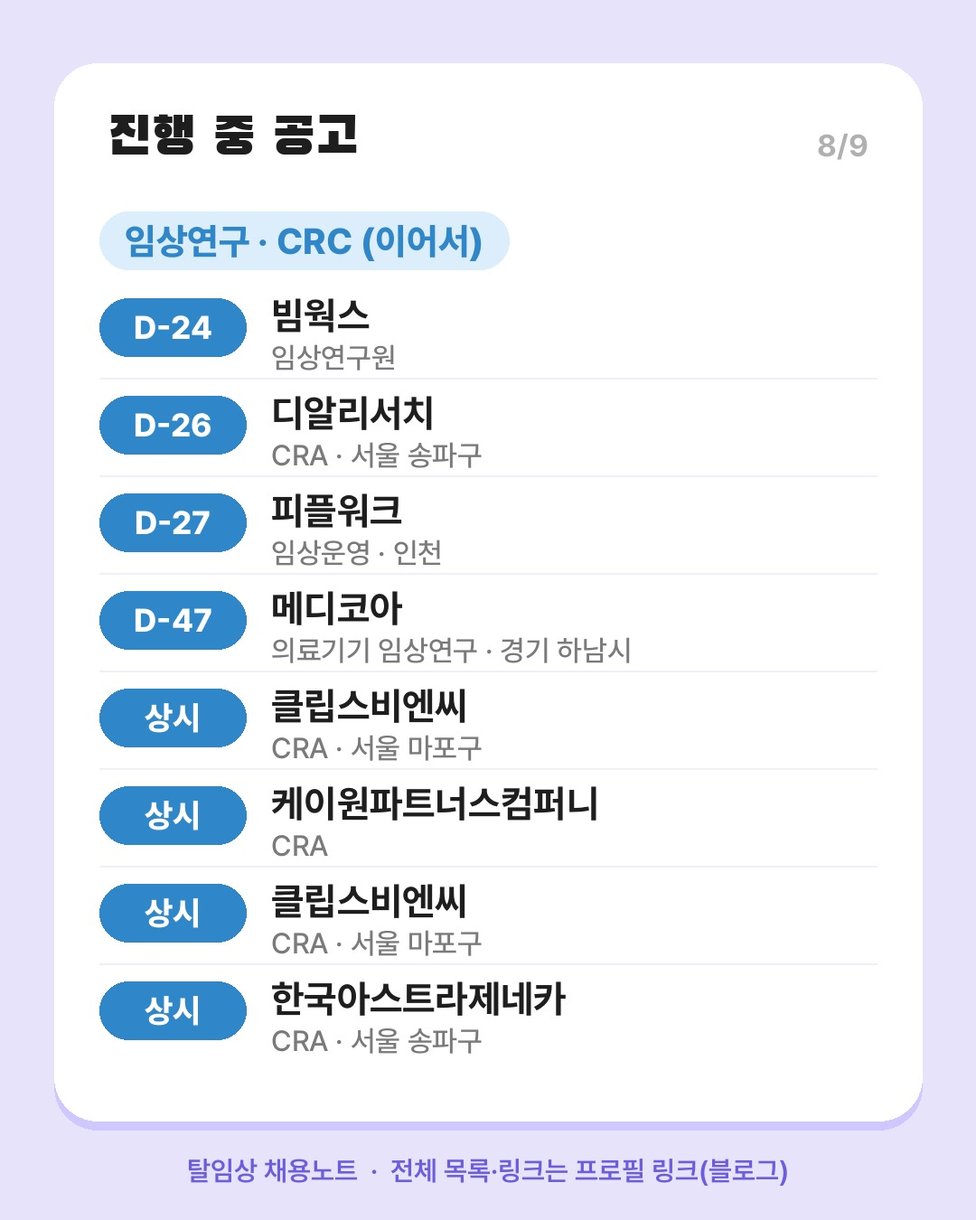
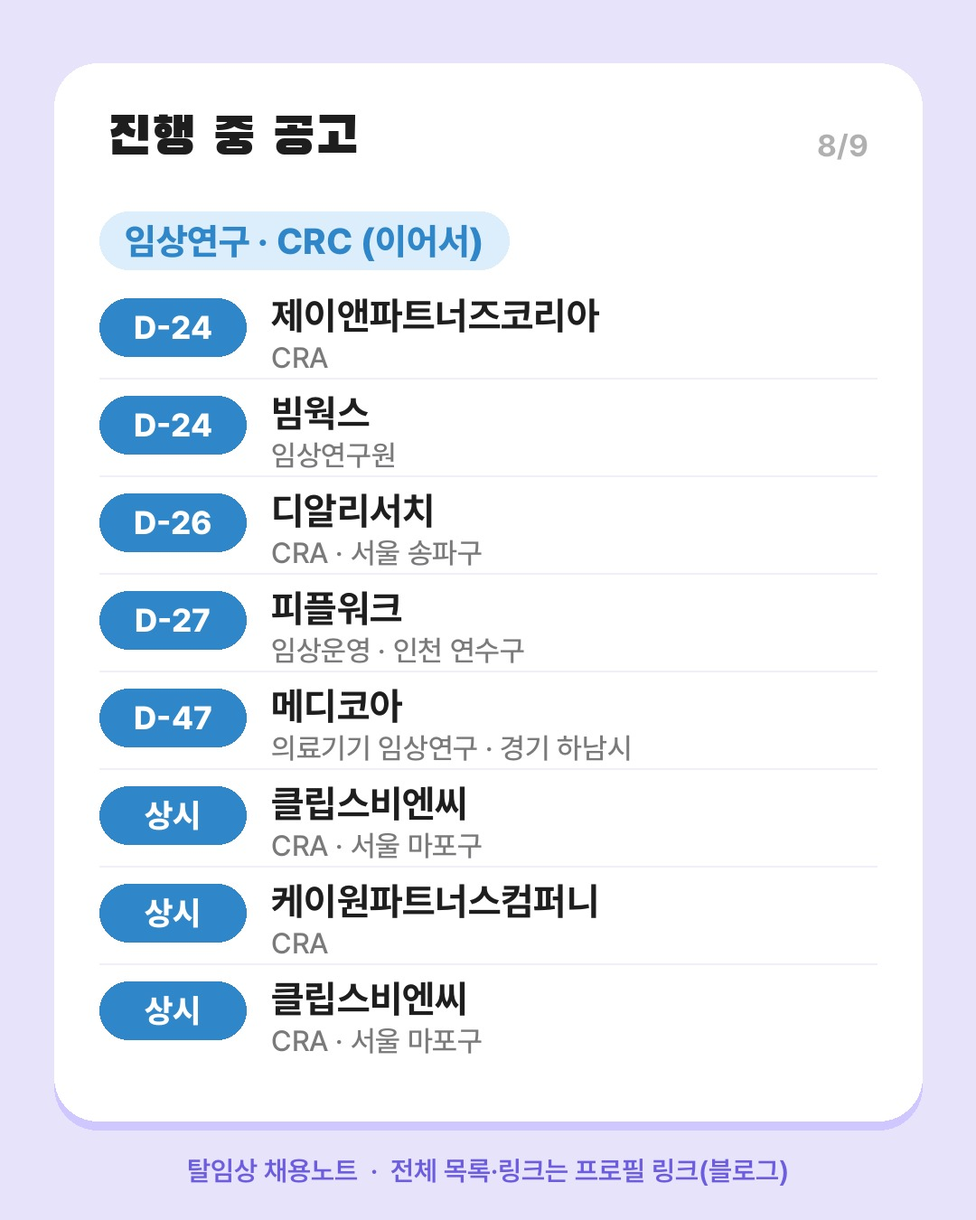
11/26 피플워크 사람인 캡처로 근무지·전형 보완, 네오뉴트라 QC(사용자 캡처) 추가
Claude-Session: https://claude.ai/code/session_015ozFBvjxcWAyqLYfTbBGCZ

diff --git a/docs/2026-11-26/index.html b/docs/2026-11-26/index.html
@@ -16,9 +16,9 @@ h2{font-size:1.2rem;margin:28px 0 4px}
 a{color:var(--accent)}ul.days{padding-left:1.2em}
 </style></head><body><main>
 <p class="muted"><a href="../">← 날짜 목록</a></p>
-<h1>2026-11-26 탈임상 공고 6건</h1>
+<h1>2026-11-26 탈임상 공고 7건</h1>
 
-<h2>📝 오늘 올릴 블로그 글 3개</h2>
+<h2>📝 오늘 올릴 블로그 글 4개</h2>
 <div class="box"><div class="row"><b>글 1. 영암군보건소 · 정신건강간호사</b>
 <span class="muted">카테고리: 탈임상 채용공고 &gt; 공공기관·공무원</span></div>
 <div class="row" style="margin-top:8px"><pre id="pt1" style="flex:1;margin:0">[광주] 영암군보건소 정신건강복지센터 정신건강간호사 기간제 채용 (~11/27)</pre>
@@ -52,45 +52,82 @@ a{color:var(--accent)}ul.days{padding-left:1.2em}
 <div class="row" style="margin-top:10px"><pre id="tg1" style="flex:1;margin:0">#영암군보건소채용 #간호사채용 #탈임상 #탈임상간호사 #정신건강복지센터 #자살예방사업 #정신건강간호사 #보건소간호사 #간호사이직 #공공기관채용</pre>
 <button onclick="copyText('tg1',this)">태그 복사</button></div>
 <div class="row" style="margin-top:10px;align-items:flex-start"><a href="thumb-01.png" download><img src="thumb-01.png" alt="썸네일 1" style="width:160px;border-radius:8px;border:1px solid var(--line)"></a>
-<span class="muted">썸네일: 이미지를 눌러 저장 후 글 맨 위에 넣으세요</span></div></div><div class="box"><div class="row"><b>글 2. 피플워크(주) · 임상운영</b>
+<span class="muted">썸네일: 이미지를 눌러 저장 후 글 맨 위에 넣으세요</span></div></div><div class="box"><div class="row"><b>글 2. 네오뉴트라(주) · 임상시험 QC</b>
 <span class="muted">카테고리: 탈임상 채용공고 &gt; 임상연구</span></div>
-<div class="row" style="margin-top:8px"><pre id="pt2" style="flex:1;margin:0">[인천] 피플워크 임상운영(간호사 지원 가능) 정규직 채용 (~12/23)</pre>
+<div class="row" style="margin-top:8px"><pre id="pt2" style="flex:1;margin:0">[서울] 네오뉴트라 QC팀 임상시험 QC(간호사 지원 가능) 정규직 채용 (~11/30)</pre>
 <button onclick="copyText('pt2',this)">제목 복사</button></div>
 <details open><summary class="muted" style="margin:10px 0;cursor:pointer">본문 미리보기 (접기)</summary>
-<div id="pb2" class="post"><p>CRC·CRA 경력을 오래 쌓은 간호사가 다음 단계로 고려할 만한 글로벌 바이오의약품사 임상운영 자리입니다. 간호학 전공이 우대 조건에 들어 있습니다.</p><p>&nbsp;</p>
+<div id="pb2" class="post"><p>CRA나 인체적용시험 경력 1년 차부터 지원할 수 있는 CRO 품질관리(QC) 정규직입니다. 간호학 전공이 지원 학과에 명시돼 있고, 주 5일 09:00~18:00 근무에 매월 마지막 주 수요일 1시간 조기퇴근이 있습니다.</p><p>&nbsp;</p>
+<h2>📌 채용 개요</h2>
+<table border="1" cellpadding="8" style="border-collapse:collapse;width:100%">
+<tr><td style="width:30%;background:#f5f5f5"><b>기관</b></td><td>네오뉴트라</td></tr>
+<tr><td style="width:30%;background:#f5f5f5"><b>부서 · 직무</b></td><td>QC팀 임상시험 QC</td></tr>
+<tr><td style="width:30%;background:#f5f5f5"><b>채용 인원</b></td><td>0명</td></tr>
+<tr><td style="width:30%;background:#f5f5f5"><b>고용 형태</b></td><td>정규직 (수습기간 3개월)</td></tr>
+<tr><td style="width:30%;background:#f5f5f5"><b>근무지</b></td><td>서울 종로구 효제동 20 우일빌딩 (서울 1호선 종로5가역 3번 출구 500m, 4호선 혜화역 2번 출구 700m)</td></tr>
+<tr><td style="width:30%;background:#f5f5f5"><b>급여</b></td><td>공고문 확인 필요 (기관 내규)</td></tr>
+<tr><td style="width:30%;background:#f5f5f5"><b>근무 시간</b></td><td>주 5일(월~금) 09:00~18:00</td></tr>
+<tr><td style="width:30%;background:#f5f5f5"><b>접수 기간</b></td><td>~ 11월 30일 23:59 (D-4)</td></tr>
+</table><p>&nbsp;</p>
+<h2>💰 급여</h2><ul><li>면접 후 결정</li><li>중식대 제공, 야근 시 석식대 제공</li></ul><p>&nbsp;</p>
+<h2>🎁 복리후생</h2><ul><li>워크샵: 1년에 1~2회 친목도모 워크샵</li><li>식대 제공: 중식대 제공, 야근 시 석식대 제공</li><li>자유로운 연차사용: 프로젝트 일정에 지장을 주지 않는 선에서 연차 자유롭게 사용</li><li>문화의 날: 매월 마지막 주 수요일 1시간 일찍 조기퇴근</li><li>N카페(사내카페): 삶은 계란, 토스트기, 다과, 아이스크림 등 무한 제공</li><li>의류관리기 비치 (각 층 스타일러)</li><li>생일 축하금: 생일 직원에게 현금 지급</li><li>건강검진, 퇴직연금·퇴직금·연차수당·4대 보험, 명절선물/귀향비·생일선물/파티</li><li>신규 입사자 교육(OJT), 교육비 지원, 간식 제공</li><li>휴게실, 회의실, 공기청정기, 사원증, 사무용품 지급</li><li>연차, 경조휴가제, 반차, 산전 후 휴가, 육아휴직</li></ul><p>&nbsp;</p>
+<h2>✅ 지원 자격</h2><ul><li>학과: 간호학, 의학, 생명공학, 약학 등</li><li>1년 이상의 CRA 또는 임상(인체적용)시험 관련 분야 업무 경력 보유자</li></ul><p>&nbsp;</p>
+<h2>⭐ 우대 사항</h2><ul><li>임상시험 관련 교육(GCP 등) 이수자 우대</li><li>MS Office 활용 가능자(Excel, Word, PPT 등)</li></ul><p>&nbsp;</p>
+<h2>📎 직무내용</h2><ul><li>사내 임상 연구에 대한 QC (계획 수립, QC(In-house, On-site) 활동, 후속조치, 관계부서 커뮤니케이션 등)</li><li>기타 사내 SOP에서 요구하는 품질관리 업무</li></ul><p>&nbsp;</p>
+<h2>🧭 전형 절차</h2><ol><li>서류전형 → 1차면접 → 2차면접 → 최종합격</li></ol><p>&nbsp;</p>
+<h2>💡 한줄 TIP</h2><p>CRA·CRC 경력 1년 이상으로 품질관리 쪽을 노리는 간호사에게 적합. 11/30 마감, 정규직.</p><p>&nbsp;</p>
+<h2>🔗 지원하기</h2><ul>
+<li><a href="http://neonutra.com/2016/">기관 채용 홈페이지에서 바로 지원</a></li>
+<li>접수 방법: 사람인 온라인 입사지원, 홈페이지 지원(http://neonutra.com/2016/), 이메일 지원(human@neonutra.com) — 이력서(희망연봉 기재), 자기소개서(경력중심), 최종합격 후 추가서류</li>
+</ul><p>※ 공고 내용을 요약한 글입니다. 지원 전 원문 공고문을 꼭 확인하세요.</p><p>&nbsp;</p>
+<p>📢 <b>새 공고는 매일 아침 인스타그램 스토리에 먼저 올라옵니다.</b><br>마감 하루 전 알림도 스토리로 보내드립니다.<br>👉 인스타그램 <a href="https://www.instagram.com/live_in_fact/">@live_in_fact</a> 팔로우하고 놓치지 마세요</p><p>&nbsp;</p>
+<p>#네오뉴트라채용 #간호사채용 #탈임상 #탈임상간호사 #CRO #임상시험QC #CRA #간호사이직 #서울채용</p></div></details>
+<div class="row"><span class="muted">네이버 글쓰기에 제목 → 본문 순서로 붙여넣으세요</span>
+<button onclick="copyHtml('pb2',this)">본문 복사</button></div>
+<div class="row" style="margin-top:10px"><pre id="tg2" style="flex:1;margin:0">#네오뉴트라채용 #간호사채용 #탈임상 #탈임상간호사 #CRO #임상시험QC #CRA #간호사이직 #서울채용</pre>
+<button onclick="copyText('tg2',this)">태그 복사</button></div>
+<div class="row" style="margin-top:10px;align-items:flex-start"><a href="thumb-02.png" download><img src="thumb-02.png" alt="썸네일 2" style="width:160px;border-radius:8px;border:1px solid var(--line)"></a>
+<span class="muted">썸네일: 이미지를 눌러 저장 후 글 맨 위에 넣으세요</span></div></div><div class="box"><div class="row"><b>글 3. 피플워크(주) · 임상운영</b>
+<span class="muted">카테고리: 탈임상 채용공고 &gt; 임상연구</span></div>
+<div class="row" style="margin-top:8px"><pre id="pt3" style="flex:1;margin:0">[인천] 피플워크 임상운영(간호사 지원 가능) 정규직 채용 (~12/23)</pre>
+<button onclick="copyText('pt3',this)">제목 복사</button></div>
+<details open><summary class="muted" style="margin:10px 0;cursor:pointer">본문 미리보기 (접기)</summary>
+<div id="pb3" class="post"><p>CRC·CRA 경력을 오래 쌓은 간호사가 다음 단계로 고려할 만한 글로벌 바이오의약품사 임상운영 자리입니다. 간호학 전공이 우대 조건에 들어 있습니다.</p><p>&nbsp;</p>
 <h2>📌 채용 개요</h2>
 <table border="1" cellpadding="8" style="border-collapse:collapse;width:100%">
 <tr><td style="width:30%;background:#f5f5f5"><b>기관</b></td><td>피플워크</td></tr>
 <tr><td style="width:30%;background:#f5f5f5"><b>부서 · 직무</b></td><td>임상운영</td></tr>
+<tr><td style="width:30%;background:#f5f5f5"><b>채용 인원</b></td><td>0명</td></tr>
 <tr><td style="width:30%;background:#f5f5f5"><b>고용 형태</b></td><td>정규직</td></tr>
-<tr><td style="width:30%;background:#f5f5f5"><b>근무지</b></td><td>인천</td></tr>
+<tr><td style="width:30%;background:#f5f5f5"><b>근무지</b></td><td>인천 연수구 송도동 (인천1호선 테크노파크역 500m 이내)</td></tr>
 <tr><td style="width:30%;background:#f5f5f5"><b>학력</b></td><td>대졸 이상</td></tr>
-<tr><td style="width:30%;background:#f5f5f5"><b>급여</b></td><td>회사내규</td></tr>
+<tr><td style="width:30%;background:#f5f5f5"><b>급여</b></td><td>공고문 확인 필요 (기관 내규)</td></tr>
 <tr><td style="width:30%;background:#f5f5f5"><b>근무 시간</b></td><td>공고문 확인 필요</td></tr>
 <tr><td style="width:30%;background:#f5f5f5"><b>접수 기간</b></td><td>11월 23일 ~ 12월 23일 23:59 (D-27)</td></tr>
 </table><p>&nbsp;</p>
-<h2>💰 급여</h2><ul><li>회사내규</li></ul><p>&nbsp;</p>
-<h2>✅ 지원 자격</h2><ul><li>학사 이상</li><li>관련 경력 9년 이상</li><li>직무기술: 유전공학, 생명, 생물 / 의사, 약사, 간호사</li></ul><p>&nbsp;</p>
+<h2>💰 급여</h2><ul><li>면접 후 결정 (인크루트 표기: 회사내규)</li></ul><p>&nbsp;</p>
+<h2>✅ 지원 자격</h2><ul><li>학사 이상</li><li>관련 경력 9년 이상</li></ul><p>&nbsp;</p>
 <h2>⭐ 우대 사항</h2><ul><li>영어 능통자</li><li>글로벌 임상시험 과제 운영 경험자</li><li>생명과학, 약학, 수의학, 간호학 관련 전공자</li></ul><p>&nbsp;</p>
 <h2>📎 직무내용</h2><ul><li>임상시험 운영 및 관리</li><li>임상시험 계획, 예산, 일정 및 품질 관리</li><li>글로벌 임상시험 실시 국가 및 기관 관리</li><li>임상시험 수탁기관(CRO) 및 Vendor 선정·관리</li><li>임상시험 관련 문서 개발 및 검토</li></ul><p>&nbsp;</p>
-<h2>🧭 전형 절차</h2><ol><li>서류전형 → 면접전형 → 최종합격</li></ol><p>&nbsp;</p>
+<h2>🧭 전형 절차</h2><ol><li>서류전형 → 면접 → 최종합격</li></ol><p>&nbsp;</p>
 <h2>💡 한줄 TIP</h2><p>임상연구 경력 9년 이상 시니어에게 적합. 영어 능통·글로벌 과제 경험 우대.</p><p>&nbsp;</p>
 <h2>🔗 지원하기</h2><ul>
 <li><a href="https://job.incruit.com/jobdb_info/jobpost.asp?job=2611230000970">기관 채용 홈페이지에서 바로 지원</a></li>
+<li>접수 방법: 인크루트 바로지원 (사람인에도 같은 공고: 사람인 온라인 이력서, 2026-12-11 24시 마감) — 국문·영문 이력서, 경력기술서 포함</li>
 </ul><p>※ 공고 내용을 요약한 글입니다. 지원 전 원문 공고문을 꼭 확인하세요.</p><p>&nbsp;</p>
 <p>📢 <b>새 공고는 매일 아침 인스타그램 스토리에 먼저 올라옵니다.</b><br>마감 하루 전 알림도 스토리로 보내드립니다.<br>👉 인스타그램 <a href="https://www.instagram.com/live_in_fact/">@live_in_fact</a> 팔로우하고 놓치지 마세요</p><p>&nbsp;</p>
 <p>#피플워크채용 #간호사채용 #탈임상 #탈임상간호사 #피플워크 #임상운영 #ClinicalOperations #바이오의약품 #인천 #간호사이직</p></div></details>
 <div class="row"><span class="muted">네이버 글쓰기에 제목 → 본문 순서로 붙여넣으세요</span>
-<button onclick="copyHtml('pb2',this)">본문 복사</button></div>
-<div class="row" style="margin-top:10px"><pre id="tg2" style="flex:1;margin:0">#피플워크채용 #간호사채용 #탈임상 #탈임상간호사 #피플워크 #임상운영 #ClinicalOperations #바이오의약품 #인천 #간호사이직</pre>
-<button onclick="copyText('tg2',this)">태그 복사</button></div>
-<div class="row" style="margin-top:10px;align-items:flex-start"><a href="thumb-02.png" download><img src="thumb-02.png" alt="썸네일 2" style="width:160px;border-radius:8px;border:1px solid var(--line)"></a>
-<span class="muted">썸네일: 이미지를 눌러 저장 후 글 맨 위에 넣으세요</span></div></div><div class="box"><div class="row"><b>글 3. 에어프레미아 · 보건관리자</b>
+<button onclick="copyHtml('pb3',this)">본문 복사</button></div>
+<div class="row" style="margin-top:10px"><pre id="tg3" style="flex:1;margin:0">#피플워크채용 #간호사채용 #탈임상 #탈임상간호사 #피플워크 #임상운영 #ClinicalOperations #바이오의약품 #인천 #간호사이직</pre>
+<button onclick="copyText('tg3',this)">태그 복사</button></div>
+<div class="row" style="margin-top:10px;align-items:flex-start"><a href="thumb-03.png" download><img src="thumb-03.png" alt="썸네일 3" style="width:160px;border-radius:8px;border:1px solid var(--line)"></a>
+<span class="muted">썸네일: 이미지를 눌러 저장 후 글 맨 위에 넣으세요</span></div></div><div class="box"><div class="row"><b>글 4. 에어프레미아 · 보건관리자</b>
 <span class="muted">카테고리: 탈임상 채용공고 &gt; 산업간호사·기업</span></div>
-<div class="row" style="margin-top:8px"><pre id="pt3" style="flex:1;margin:0">[서울] 에어프레미아 산업안전보건파트 보건관리자(간호사) 계약직 채용 (상시)</pre>
-<button onclick="copyText('pt3',this)">제목 복사</button></div>
+<div class="row" style="margin-top:8px"><pre id="pt4" style="flex:1;margin:0">[서울] 에어프레미아 산업안전보건파트 보건관리자(간호사) 계약직 채용 (상시)</pre>
+<button onclick="copyText('pt4',this)">제목 복사</button></div>
 <details open><summary class="muted" style="margin:10px 0;cursor:pointer">본문 미리보기 (접기)</summary>
-<div id="pb3" class="post"><p>항공사 보건관리자로 우주방사선 관리 같은 특수한 업무까지 경험할 수 있는 자리입니다. 보건관리자 경력 3년 이상 간호사가 대상인 육아휴직 대체 계약직입니다.</p><p>&nbsp;</p>
+<div id="pb4" class="post"><p>항공사 보건관리자로 우주방사선 관리 같은 특수한 업무까지 경험할 수 있는 자리입니다. 보건관리자 경력 3년 이상 간호사가 대상인 육아휴직 대체 계약직입니다.</p><p>&nbsp;</p>
 <h2>📌 채용 개요</h2>
 <table border="1" cellpadding="8" style="border-collapse:collapse;width:100%">
 <tr><td style="width:30%;background:#f5f5f5"><b>기관</b></td><td>에어프레미아</td></tr>
@@ -112,20 +149,20 @@ a{color:var(--accent)}ul.days{padding-left:1.2em}
 <p>📢 <b>새 공고는 매일 아침 인스타그램 스토리에 먼저 올라옵니다.</b><br>마감 하루 전 알림도 스토리로 보내드립니다.<br>👉 인스타그램 <a href="https://www.instagram.com/live_in_fact/">@live_in_fact</a> 팔로우하고 놓치지 마세요</p><p>&nbsp;</p>
 <p>#에어프레미아채용 #간호사채용 #탈임상 #탈임상간호사 #항공사보건관리자 #보건관리자 #서울보건관리자 #산업간호사 #간호사이직</p></div></details>
 <div class="row"><span class="muted">네이버 글쓰기에 제목 → 본문 순서로 붙여넣으세요</span>
-<button onclick="copyHtml('pb3',this)">본문 복사</button></div>
-<div class="row" style="margin-top:10px"><pre id="tg3" style="flex:1;margin:0">#에어프레미아채용 #간호사채용 #탈임상 #탈임상간호사 #항공사보건관리자 #보건관리자 #서울보건관리자 #산업간호사 #간호사이직</pre>
-<button onclick="copyText('tg3',this)">태그 복사</button></div>
-<div class="row" style="margin-top:10px;align-items:flex-start"><a href="thumb-03.png" download><img src="thumb-03.png" alt="썸네일 3" style="width:160px;border-radius:8px;border:1px solid var(--line)"></a>
+<button onclick="copyHtml('pb4',this)">본문 복사</button></div>
+<div class="row" style="margin-top:10px"><pre id="tg4" style="flex:1;margin:0">#에어프레미아채용 #간호사채용 #탈임상 #탈임상간호사 #항공사보건관리자 #보건관리자 #서울보건관리자 #산업간호사 #간호사이직</pre>
+<button onclick="copyText('tg4',this)">태그 복사</button></div>
+<div class="row" style="margin-top:10px;align-items:flex-start"><a href="thumb-04.png" download><img src="thumb-04.png" alt="썸네일 4" style="width:160px;border-radius:8px;border:1px solid var(--line)"></a>
 <span class="muted">썸네일: 이미지를 눌러 저장 후 글 맨 위에 넣으세요</span></div></div>
 
 <h2>🗂 이번에 안 고른 공고</h2><div class="box"><p class="muted">마음에 드는 공고가 있으면 번호와 함께 "이거 추가해줘"라고 말해주세요.</p><details open><summary><b>탈임상인데 글로 안 고른 공고 3건</b></summary><table style="width:100%;border-collapse:collapse;font-size:14px"><tr><th align=left>마감</th><th align=left>기관 · 공고</th><th align=left>근무지</th><th align=left>번호</th></tr><tr><td>~11/27</td><td><b>세정초등학교 · 보건교사</b><br><span class='muted'><a href="https://www.goe.go.kr/recruit/ad/func/pb/hnfpPbancList.do?mi=10502" target="_blank">2026학년도 세정초등학교 기간제교원(보건교사)의 채용 공고</a></span></td><td>경기 화성시</td><td class='muted' style='font-size:12px'>goe:8d8ee822f1</td></tr><tr><td>~11/29</td><td><b>의료법인 우리의료재단 · CRC</b><br><span class='muted'><a href="https://job.incruit.com/jobdb_info/jobpost.asp?job=2611240001984" target="_blank">김포우리병원 임상연구팀 CRC 간호사 채용공고</a></span></td><td>경기 김포시</td><td class='muted' style='font-size:12px'>incruit:2611240001984</td></tr><tr><td>-</td><td><b>쿠팡 · 보건관리자</b><br><span class='muted'><a href="https://job.incruit.com/jobdb_info/jobpost.asp?job=2610240000280" target="_blank">[쿠팡로지스틱스서비스] 보건관리자 (안산1 / 계약직)</a></span></td><td>경기 안산시</td><td class='muted' style='font-size:12px'>incruit:2610240000280</td></tr></table></details><details style="margin-top:12px"><summary><b>임상·교대근무 등으로 제외한 공고 4건</b></summary><table style="width:100%;border-collapse:collapse;font-size:14px"><tr><th align=left>마감</th><th align=left>기관 · 공고</th><th align=left>근무지</th><th align=left>번호</th></tr><tr><td>~12/3</td><td><b>연세대학교의료원</b><br><span class='muted'><a href="https://www.catch.co.kr/NCS/RecruitInfoDetails/583642" target="_blank">[일반-신촌] 26.11 사무원(계약직) 세브) 임상시험센터 채용</a></span></td><td>서울 서대문구</td><td class='muted' style='font-size:12px'>work24:583642</td></tr><tr><td>~12/6</td><td><b>법무법인(유한)태평양</b><br><span class='muted'><a href="https://job.incruit.com/jobdb_info/jobpost.asp?job=2611250000182" target="_blank">[로펌/법무법인(유한) 태평양] CRC 팀 Staff 채용</a></span></td><td>서울 종로구 외</td><td class='muted' style='font-size:12px'>incruit:2611250000182</td></tr><tr><td>~12/11</td><td><b>대한적십자사</b><br><span class='muted'><a href="https://job.alio.go.kr/recruitview.do?idx=307405" target="_blank">(통영적십자병원) 정규직 간호사 채용 공고</a></span></td><td>경남</td><td class='muted' style='font-size:12px'>alio:307405</td></tr><tr><td>-</td><td><b>한국지엠</b><br><span class='muted'><a href="https://job.incruit.com/jobdb_info/jobpost.asp?job=2610230000020" target="_blank">GMTCK 보건관리자</a></span></td><td>인천 부평구</td><td class='muted' style='font-size:12px'>incruit:2610230000020</td></tr></table></details></div>
 
 <h2>📋 진행 중 공고 전체 정리 (1개)</h2>
 <div class="box"><div class="row"><b>전체 정리 글</b><span class="muted">카테고리: 주간 채용 총정리</span></div>
-<div class="row" style="margin-top:8px"><pre id="st" style="flex:1;margin:0">[11/26] 탈임상 간호사 채용공고 총정리 (진행 중 69건)</pre>
+<div class="row" style="margin-top:8px"><pre id="st" style="flex:1;margin:0">[11/26] 탈임상 간호사 채용공고 총정리 (진행 중 70건)</pre>
 <button onclick="copyText('st',this)">제목 복사</button></div>
 <details><summary class="muted" style="margin:10px 0;cursor:pointer">본문 미리보기</summary>
-<div id="sb" class="post"><p>11월 26일 기준, 지금 지원할 수 있는 <b>탈임상 간호사 채용공고 69건</b>을 한 번에 정리했습니다. 새로 올라온 공고는 <b>43건</b>, <b>3일 안에 마감</b>되는 공고는 <b>21건</b>입니다.</p>
+<div id="sb" class="post"><p>11월 26일 기준, 지금 지원할 수 있는 <b>탈임상 간호사 채용공고 70건</b>을 한 번에 정리했습니다. 새로 올라온 공고는 <b>43건</b>, <b>3일 안에 마감</b>되는 공고는 <b>21건</b>입니다.</p>
 <p>🆕 새로 올라온 공고 · 고용: 정규(정규직·무기계약직) / 비정규(계약·기간제 등)<br>📝 누르면 블로그 정리글 · 기관명을 누르면 공고 원문</p><p>&nbsp;</p>
 <h2>🏭 산업간호사·기업 (23건)</h2>
 <table border="1" cellpadding="6" style="border-collapse:collapse;width:100%;table-layout:fixed">
@@ -178,11 +215,12 @@ a{color:var(--accent)}ul.days{padding-left:1.2em}
 <tr><td style="text-align:center;white-space:nowrap">12/7<br>D-11</td><td><a href="https://www.korea.kr/archive/recruitInfoView.do?dataId=400216">아산시</a></td><td>보건소장</td><td>충남 아산시</td><td style="text-align:center;white-space:nowrap"><span style="color:#868e96">비정규</span></td><td style="text-align:center;white-space:nowrap">-</td></tr>
 <tr><td style="text-align:center;white-space:nowrap">12/8<br>D-12</td><td>🆕 <a href="https://job.alio.go.kr/recruitview.do?idx=307355">대한적십자사</a></td><td>재난심리 사무직 (4건)</td><td>대전 · 세종</td><td style="text-align:center;white-space:nowrap"><b><span style="color:#1971c2">정규</span></b></td><td style="text-align:center;white-space:nowrap">-</td></tr>
 </table><p>&nbsp;</p>
-<h2>🔬 임상연구 (18건)</h2>
+<h2>🔬 임상연구 (19건)</h2>
 <table border="1" cellpadding="6" style="border-collapse:collapse;width:100%;table-layout:fixed">
 <tr style="background:#f5f5f5"><td width="11%" style="width:11%;text-align:center;white-space:nowrap"><b>마감</b></td><td width="26%" style="width:26%;text-align:center;white-space:nowrap"><b>기관</b></td><td width="28%" style="width:28%;text-align:center;white-space:nowrap"><b>직무</b></td><td width="17%" style="width:17%;text-align:center;white-space:nowrap"><b>근무지</b></td><td width="10%" style="width:10%;text-align:center;white-space:nowrap"><b>고용</b></td><td width="8%" style="width:8%;text-align:center;white-space:nowrap"><b>글</b></td></tr>
 <tr><td style="text-align:center;white-space:nowrap">11/29<br><b><span style="color:#e03131">D-3</span></b></td><td>🆕 <a href="https://job.incruit.com/jobdb_info/jobpost.asp?job=2611240001984">의료법인 우리의료재단</a></td><td>CRC</td><td>경기 김포시</td><td style="text-align:center;white-space:nowrap"><span style="color:#868e96">비정규</span></td><td style="text-align:center;white-space:nowrap">-</td></tr>
 <tr><td style="text-align:center;white-space:nowrap">11/29<br><b><span style="color:#e03131">D-3</span></b></td><td>🆕 <a href="https://job.incruit.com/jobdb_info/jobpost.asp?job=2611240001984&amp;pco=583">김포우리병원</a></td><td>임상연구팀 CRC 간호사</td><td>경기 김포시</td><td style="text-align:center;white-space:nowrap"><span style="color:#868e96">비정규</span></td><td style="text-align:center;white-space:nowrap"><a href="https://blog.naver.com/PostSearchList.naver?blogId=live_in_fact&amp;orderType=sim&amp;searchText=%EA%B9%80%ED%8F%AC%EC%9A%B0%EB%A6%AC%EB%B3%91%EC%9B%90">📝</a></td></tr>
+<tr><td style="text-align:center;white-space:nowrap">11/30<br>D-4</td><td><a href="http://neonutra.com/2016/">네오뉴트라</a></td><td>QC팀 임상시험 QC</td><td>서울 종로구</td><td style="text-align:center;white-space:nowrap"><b><span style="color:#1971c2">정규</span></b></td><td style="text-align:center;white-space:nowrap"><a href="https://blog.naver.com/PostSearchList.naver?blogId=live_in_fact&amp;orderType=sim&amp;searchText=%EB%84%A4%EC%98%A4%EB%89%B4%ED%8A%B8%EB%9D%BC">📝</a></td></tr>
 <tr><td style="text-align:center;white-space:nowrap">12/2<br>D-6</td><td>🆕 <a href="https://www.work24.go.kr/wk/a/b/1500/empDetailAuthView.do?wantedAuthNo=55610935&amp;infoTypeCd=CSI&amp;infoTypeGroup=tb_workinfogubun">엠바이오</a></td><td>CRA</td><td>서울 서초구</td><td style="text-align:center;white-space:nowrap"><b><span style="color:#1971c2">정규</span></b></td><td style="text-align:center;white-space:nowrap"><a href="https://blog.naver.com/PostSearchList.naver?blogId=live_in_fact&amp;orderType=sim&amp;searchText=%EC%97%A0%EB%B0%94%EC%9D%B4%EC%98%A4">📝</a></td></tr>
 <tr><td style="text-align:center;white-space:nowrap">12/3<br>D-7</td><td><a href="https://job.alio.go.kr/recruitview.do?idx=307212">부산대학교병원</a></td><td>권역외상센터 운영지원팀 연구원</td><td>부산</td><td style="text-align:center;white-space:nowrap"><span style="color:#868e96">비정규</span></td><td style="text-align:center;white-space:nowrap"><a href="https://blog.naver.com/PostSearchList.naver?blogId=live_in_fact&amp;orderType=sim&amp;searchText=%EB%B6%80%EC%82%B0%EB%8C%80%ED%95%99%EA%B5%90%EB%B3%91%EC%9B%90">📝</a></td></tr>
 <tr><td style="text-align:center;white-space:nowrap">12/15<br>D-19</td><td>🆕 <a href="http://www.saramin.co.kr/zf_user/recruit/recruit-view?idx=55582657">제이인츠바이오</a></td><td>CRA</td><td>서울 성동구</td><td style="text-align:center;white-space:nowrap"><b><span style="color:#1971c2">정규</span></b></td><td style="text-align:center;white-space:nowrap">-</td></tr>
@@ -193,7 +231,7 @@ a{color:var(--accent)}ul.days{padding-left:1.2em}
 <tr><td style="text-align:center;white-space:nowrap">12/20<br>D-24</td><td>🆕 <a href="https://job.incruit.com/jobdb_info/jobpost.asp?job=2611200003394&amp;pco=583">제이앤파트너즈코리아</a></td><td>CRA</td><td>-</td><td style="text-align:center;white-space:nowrap"><b><span style="color:#1971c2">정규</span></b></td><td style="text-align:center;white-space:nowrap">-</td></tr>
 <tr><td style="text-align:center;white-space:nowrap">12/20<br>D-24</td><td>🆕 <a href="http://www.saramin.co.kr/zf_user/recruit/recruit-view?idx=55629393">빔웍스</a></td><td>임상연구원</td><td>-</td><td style="text-align:center;white-space:nowrap">-</td><td style="text-align:center;white-space:nowrap">-</td></tr>
 <tr><td style="text-align:center;white-space:nowrap">12/22<br>D-26</td><td>🆕 <a href="http://www.saramin.co.kr/zf_user/recruit/recruit-view?idx=55639350">디알리서치</a></td><td>CRA</td><td>서울 송파구</td><td style="text-align:center;white-space:nowrap"><b><span style="color:#1971c2">정규</span></b></td><td style="text-align:center;white-space:nowrap"><a href="https://blog.naver.com/PostSearchList.naver?blogId=live_in_fact&amp;orderType=sim&amp;searchText=%EB%94%94%EC%95%8C%EB%A6%AC%EC%84%9C%EC%B9%98">📝</a></td></tr>
-<tr><td style="text-align:center;white-space:nowrap">12/23<br>D-27</td><td>🆕 <a href="https://job.incruit.com/jobdb_info/jobpost.asp?job=2611230000970">피플워크</a></td><td>임상운영</td><td>인천</td><td style="text-align:center;white-space:nowrap"><b><span style="color:#1971c2">정규</span></b></td><td style="text-align:center;white-space:nowrap"><a href="https://blog.naver.com/PostSearchList.naver?blogId=live_in_fact&amp;orderType=sim&amp;searchText=%ED%94%BC%ED%94%8C%EC%9B%8C%ED%81%AC">📝</a></td></tr>
+<tr><td style="text-align:center;white-space:nowrap">12/23<br>D-27</td><td>🆕 <a href="https://job.incruit.com/jobdb_info/jobpost.asp?job=2611230000970">피플워크</a></td><td>임상운영</td><td>인천 연수구</td><td style="text-align:center;white-space:nowrap"><b><span style="color:#1971c2">정규</span></b></td><td style="text-align:center;white-space:nowrap"><a href="https://blog.naver.com/PostSearchList.naver?blogId=live_in_fact&amp;orderType=sim&amp;searchText=%ED%94%BC%ED%94%8C%EC%9B%8C%ED%81%AC">📝</a></td></tr>
 <tr><td style="text-align:center;white-space:nowrap">1/12<br>D-47</td><td>🆕 <a href="http://www.saramin.co.kr/zf_user/recruit/recruit-view?idx=55565916">메디코아</a></td><td>의료기기 임상연구</td><td>경기 하남시</td><td style="text-align:center;white-space:nowrap">-</td><td style="text-align:center;white-space:nowrap">-</td></tr>
 <tr><td style="text-align:center;white-space:nowrap">상시</td><td>🆕 <a href="http://www.saramin.co.kr/zf_user/recruit/recruit-view?idx=55624494">클립스비엔씨</a></td><td>CRA (2건)</td><td>서울 마포구</td><td style="text-align:center;white-space:nowrap"><b><span style="color:#1971c2">정규</span></b></td><td style="text-align:center;white-space:nowrap">-</td></tr>
 <tr><td style="text-align:center;white-space:nowrap">상시</td><td>🆕 <a href="https://job.incruit.com/jobdb_info/jobpost.asp?job=2611170000287&amp;pco=583">케이원파트너스컴퍼니</a></td><td>CRA</td><td>-</td><td style="text-align:center;white-space:nowrap"><b><span style="color:#1971c2">정규</span></b></td><td style="text-align:center;white-space:nowrap">-</td></tr>
@@ -218,7 +256,7 @@ a{color:var(--accent)}ul.days{padding-left:1.2em}
 <h2>📷 인스타</h2>
 <div class="box"><b>피드: 진행 중 공고 총정리</b> <span class="muted">(10장 · 순서대로)</span>
 <div style="display:flex;flex-wrap:wrap;margin-top:8px"><a href="roundup-1.jpg" download><img src="roundup-1.jpg" style="width:150px;border-radius:8px;border:1px solid var(--line);margin:0 6px 6px 0"></a><a href="roundup-2.jpg" download><img src="roundup-2.jpg" style="width:150px;border-radius:8px;border:1px solid var(--line);margin:0 6px 6px 0"></a><a href="roundup-3.jpg" download><img src="roundup-3.jpg" style="width:150px;border-radius:8px;border:1px solid var(--line);margin:0 6px 6px 0"></a><a href="roundup-4.jpg" download><img src="roundup-4.jpg" style="width:150px;border-radius:8px;border:1px solid var(--line);margin:0 6px 6px 0"></a><a href="roundup-5.jpg" download><img src="roundup-5.jpg" style="width:150px;border-radius:8px;border:1px solid var(--line);margin:0 6px 6px 0"></a><a href="roundup-6.jpg" download><img src="roundup-6.jpg" style="width:150px;border-radius:8px;border:1px solid var(--line);margin:0 6px 6px 0"></a><a href="roundup-7.jpg" download><img src="roundup-7.jpg" style="width:150px;border-radius:8px;border:1px solid var(--line);margin:0 6px 6px 0"></a><a href="roundup-8.jpg" download><img src="roundup-8.jpg" style="width:150px;border-radius:8px;border:1px solid var(--line);margin:0 6px 6px 0"></a><a href="roundup-9.jpg" download><img src="roundup-9.jpg" style="width:150px;border-radius:8px;border:1px solid var(--line);margin:0 6px 6px 0"></a><a href="roundup-10.jpg" download><img src="roundup-10.jpg" style="width:150px;border-radius:8px;border:1px solid var(--line);margin:0 6px 6px 0"></a></div>
-<pre id="rcap" style="margin:8px 0">📋 11/26 기준 탈임상 간호사 채용공고 65건
+<pre id="rcap" style="margin:8px 0">📋 11/26 기준 탈임상 간호사 채용공고 66건
 
 · 횡성군 간호사 (D-DAY)
 · 한국보건의료정보원 EMR인증 행정전문요원 (D-DAY)
@@ -232,14 +270,14 @@ a{color:var(--accent)}ul.days{padding-left:1.2em}
 · 홍성군보건소 암조기검진사업 (D-1)
 · 홍성군보건소 자살예방사업 요원 (D-1)
 · 홍성군보건소 방문건강관리 (D-1)
-…외 53건
+…외 54건
 
 🔗 전체 목록·원문 링크는 프로필 링크(블로그)에서
 💾 저장해두고 마감 체크
 
 #탈임상 #탈임상간호사 #간호사채용 #간호사이직 #간호사취업 #보건관리자 #보험심사간호사 #보건소간호사 #CRC #간호사채용공고</pre><button onclick="copyText('rcap',this)">캡션 복사</button></div>
 <div class="box"><b>스토리: 오늘 공고</b> <span class="muted">(링크 스티커로 블로그 글 연결)</span>
-<div style="display:flex;flex-wrap:wrap;margin-top:8px"><a href="story-01.jpg" download><img src="story-01.jpg" style="width:110px;border-radius:8px;border:1px solid var(--line);margin:0 6px 6px 0"></a><a href="story-02.jpg" download><img src="story-02.jpg" style="width:110px;border-radius:8px;border:1px solid var(--line);margin:0 6px 6px 0"></a><a href="story-03.jpg" download><img src="story-03.jpg" style="width:110px;border-radius:8px;border:1px solid var(--line);margin:0 6px 6px 0"></a></div></div>
+<div style="display:flex;flex-wrap:wrap;margin-top:8px"><a href="story-01.jpg" download><img src="story-01.jpg" style="width:110px;border-radius:8px;border:1px solid var(--line);margin:0 6px 6px 0"></a><a href="story-02.jpg" download><img src="story-02.jpg" style="width:110px;border-radius:8px;border:1px solid var(--line);margin:0 6px 6px 0"></a><a href="story-03.jpg" download><img src="story-03.jpg" style="width:110px;border-radius:8px;border:1px solid var(--line);margin:0 6px 6px 0"></a><a href="story-04.jpg" download><img src="story-04.jpg" style="width:110px;border-radius:8px;border:1px solid var(--line);margin:0 6px 6px 0"></a></div></div>
 <details><summary class='muted' style='cursor:pointer'>공고별 카드뉴스(예전 형식, 필요할 때만)</summary><div class="box"><div style="display:flex;flex-wrap:wrap"><a href="ig-01-1.jpg" download><img src="ig-01-1.jpg" alt="인스타 1-1" style="width:150px;border-radius:8px;border:1px solid var(--line);margin:0 6px 6px 0"></a><a href="ig-01-2.jpg" download><img src="ig-01-2.jpg" alt="인스타 1-2" style="width:150px;border-radius:8px;border:1px solid var(--line);margin:0 6px 6px 0"></a><a href="ig-01-3.jpg" download><img src="ig-01-3.jpg" alt="인스타 1-3" style="width:150px;border-radius:8px;border:1px solid var(--line);margin:0 6px 6px 0"></a><a href="ig-01-4.jpg" download><img src="ig-01-4.jpg" alt="인스타 1-4" style="width:150px;border-radius:8px;border:1px solid var(--line);margin:0 6px 6px 0"></a><a href="ig-01-5.jpg" download><img src="ig-01-5.jpg" alt="인스타 1-5" style="width:150px;border-radius:8px;border:1px solid var(--line);margin:0 6px 6px 0"></a></div>
 <div><b>인스타 1. 영암군보건소</b> <span class="muted">(5장 · 순서대로 올리세요)</span>
 <pre id="ic1" style="margin:8px 0">📌 [광주] 영암군보건소 정신건강복지센터 정신건강간호사 기간제 채용
@@ -257,12 +295,26 @@ a{color:var(--accent)}ul.days{padding-left:1.2em}
 
 #탈임상 #탈임상간호사 #간호사채용 #간호사이직 #간호사취업 #영암군보건소채용 #정신건강복지센터 #자살예방사업 #정신건강간호사 #보건소간호사</pre>
 <button onclick="copyText('ic1',this)">캡션 복사</button></div></div><div class="box"><div style="display:flex;flex-wrap:wrap"><a href="ig-02-1.jpg" download><img src="ig-02-1.jpg" alt="인스타 2-1" style="width:150px;border-radius:8px;border:1px solid var(--line);margin:0 6px 6px 0"></a><a href="ig-02-2.jpg" download><img src="ig-02-2.jpg" alt="인스타 2-2" style="width:150px;border-radius:8px;border:1px solid var(--line);margin:0 6px 6px 0"></a><a href="ig-02-3.jpg" download><img src="ig-02-3.jpg" alt="인스타 2-3" style="width:150px;border-radius:8px;border:1px solid var(--line);margin:0 6px 6px 0"></a><a href="ig-02-4.jpg" download><img src="ig-02-4.jpg" alt="인스타 2-4" style="width:150px;border-radius:8px;border:1px solid var(--line);margin:0 6px 6px 0"></a><a href="ig-02-5.jpg" download><img src="ig-02-5.jpg" alt="인스타 2-5" style="width:150px;border-radius:8px;border:1px solid var(--line);margin:0 6px 6px 0"></a></div>
-<div><b>인스타 2. 피플워크(주)</b> <span class="muted">(5장 · 순서대로 올리세요)</span>
-<pre id="ic2" style="margin:8px 0">📌 [인천] 피플워크 임상운영(간호사 지원 가능) 정규직 채용
+<div><b>인스타 2. 네오뉴트라(주)</b> <span class="muted">(5장 · 순서대로 올리세요)</span>
+<pre id="ic2" style="margin:8px 0">📌 [서울] 네오뉴트라 QC팀 임상시험 QC(간호사 지원 가능) 정규직 채용
 
-📍 근무지: 인천
+📍 근무지: 서울 종로구
+⏰ 마감: 11/30 23:59까지 (D-4)
+🕘 근무: 주 5일(월~금) 09:00~18:00
+✅ 자격: 간호학 등 관련 학과 / CRA·임상시험 경력 1년 이상 / GCP 교육 이수 우대
+
+💡 CRA·CRC 경력 1년 이상으로 품질관리 쪽을 노리는 간호사에게 적합. 11/30 마감, 정규직.
+
+🔗 우대 사항·전형·지원 링크는 프로필 링크(블로그)에서
+💾 저장해두고 마감 체크
+
+#탈임상 #탈임상간호사 #간호사채용 #간호사이직 #간호사취업 #네오뉴트라채용 #CRO #임상시험QC #CRA #서울채용</pre>
+<button onclick="copyText('ic2',this)">캡션 복사</button></div></div><div class="box"><div style="display:flex;flex-wrap:wrap"><a href="ig-03-1.jpg" download><img src="ig-03-1.jpg" alt="인스타 3-1" style="width:150px;border-radius:8px;border:1px solid var(--line);margin:0 6px 6px 0"></a><a href="ig-03-2.jpg" download><img src="ig-03-2.jpg" alt="인스타 3-2" style="width:150px;border-radius:8px;border:1px solid var(--line);margin:0 6px 6px 0"></a><a href="ig-03-3.jpg" download><img src="ig-03-3.jpg" alt="인스타 3-3" style="width:150px;border-radius:8px;border:1px solid var(--line);margin:0 6px 6px 0"></a><a href="ig-03-4.jpg" download><img src="ig-03-4.jpg" alt="인스타 3-4" style="width:150px;border-radius:8px;border:1px solid var(--line);margin:0 6px 6px 0"></a><a href="ig-03-5.jpg" download><img src="ig-03-5.jpg" alt="인스타 3-5" style="width:150px;border-radius:8px;border:1px solid var(--line);margin:0 6px 6px 0"></a></div>
+<div><b>인스타 3. 피플워크(주)</b> <span class="muted">(5장 · 순서대로 올리세요)</span>
+<pre id="ic3" style="margin:8px 0">📌 [인천] 피플워크 임상운영(간호사 지원 가능) 정규직 채용
+
+📍 근무지: 인천 연수구
 ⏰ 마감: 12/23 23:59까지 (D-27)
-💰 급여: 회사내규
 ✅ 자격: 관련 경력 9년 이상 / 학사 이상
 
 💡 임상연구 경력 9년 이상 시니어에게 적합. 영어 능통·글로벌 과제 경험 우대.
@@ -271,9 +323,9 @@ a{color:var(--accent)}ul.days{padding-left:1.2em}
 💾 저장해두고 마감 체크
 
 #탈임상 #탈임상간호사 #간호사채용 #간호사이직 #간호사취업 #피플워크 #임상운영 #ClinicalOperations #바이오의약품 #인천</pre>
-<button onclick="copyText('ic2',this)">캡션 복사</button></div></div><div class="box"><div style="display:flex;flex-wrap:wrap"><a href="ig-03-1.jpg" download><img src="ig-03-1.jpg" alt="인스타 3-1" style="width:150px;border-radius:8px;border:1px solid var(--line);margin:0 6px 6px 0"></a><a href="ig-03-2.jpg" download><img src="ig-03-2.jpg" alt="인스타 3-2" style="width:150px;border-radius:8px;border:1px solid var(--line);margin:0 6px 6px 0"></a><a href="ig-03-3.jpg" download><img src="ig-03-3.jpg" alt="인스타 3-3" style="width:150px;border-radius:8px;border:1px solid var(--line);margin:0 6px 6px 0"></a><a href="ig-03-4.jpg" download><img src="ig-03-4.jpg" alt="인스타 3-4" style="width:150px;border-radius:8px;border:1px solid var(--line);margin:0 6px 6px 0"></a></div>
-<div><b>인스타 3. 에어프레미아</b> <span class="muted">(4장 · 순서대로 올리세요)</span>
-<pre id="ic3" style="margin:8px 0">📌 [서울] 에어프레미아 산업안전보건파트 보건관리자(간호사) 계약직 채용
+<button onclick="copyText('ic3',this)">캡션 복사</button></div></div><div class="box"><div style="display:flex;flex-wrap:wrap"><a href="ig-04-1.jpg" download><img src="ig-04-1.jpg" alt="인스타 4-1" style="width:150px;border-radius:8px;border:1px solid var(--line);margin:0 6px 6px 0"></a><a href="ig-04-2.jpg" download><img src="ig-04-2.jpg" alt="인스타 4-2" style="width:150px;border-radius:8px;border:1px solid var(--line);margin:0 6px 6px 0"></a><a href="ig-04-3.jpg" download><img src="ig-04-3.jpg" alt="인스타 4-3" style="width:150px;border-radius:8px;border:1px solid var(--line);margin:0 6px 6px 0"></a><a href="ig-04-4.jpg" download><img src="ig-04-4.jpg" alt="인스타 4-4" style="width:150px;border-radius:8px;border:1px solid var(--line);margin:0 6px 6px 0"></a></div>
+<div><b>인스타 4. 에어프레미아</b> <span class="muted">(4장 · 순서대로 올리세요)</span>
+<pre id="ic4" style="margin:8px 0">📌 [서울] 에어프레미아 산업안전보건파트 보건관리자(간호사) 계약직 채용
 
 📍 근무지: 서울 강서구
 ⏰ 마감: 상시까지 (상시채용)
@@ -285,7 +337,7 @@ a{color:var(--accent)}ul.days{padding-left:1.2em}
 💾 저장해두고 마감 체크
 
 #탈임상 #탈임상간호사 #간호사채용 #간호사이직 #간호사취업 #에어프레미아채용 #항공사보건관리자 #보건관리자 #서울보건관리자 #산업간호사</pre>
-<button onclick="copyText('ic3',this)">캡션 복사</button></div></div></details>
+<button onclick="copyText('ic4',this)">캡션 복사</button></div></div></details>
 
 </main><script>
 async function copyHtml(id, btn){

diff --git a/docs/index.html b/docs/index.html
@@ -18,5 +18,5 @@ a{color:var(--accent)}ul.days{padding-left:1.2em}
 <p class="muted">매일 아침 자동으로 업데이트됩니다. 날짜를 눌러 블로그 글과 카드뉴스를 확인하세요.</p>
 <h2>💡 탈임상 가이드 (주 1회)</h2><div class="box"><ul class="days"><li class="muted" style="list-style:none;margin-left:-1.2em"><b>올릴 예정 (34편, 날짜 순)</b></li><li><a href="guides/2026-11-26/">2026-11-26 (목)</a> <span class="muted">· 병원 밖 업무 스킬</span><br>2027 한국사능력검정시험 일정 총정리: 회차별 시험일·심화/기본 시행 회차 (공무원·공기업 준비 간호사)</li><li><a href="guides/2026-11-28/">2026-11-28 (토)</a> <span class="muted">· 자소서/면접</span><br>CRC 취업 준비, 자격증보다 먼저 할 것 (임상시험 종사자 교육·지원 전략·면접 포인트)</li><li><a href="guides/2026-11-29/">2026-11-29 (일)</a> <span class="muted">· 자소서/면접</span><br>임상 경력, 탈임상 자소서에 어떻게 쓸까? 간호사 경험을 직무 역량으로 바꾸는 법</li><li><a href="guides/2026-12-02/">2026-12-02 (수)</a> <span class="muted">· 병원 밖 업무 스킬</span><br>병원 밖 업무에서 AI(챗봇) 쓰는 법: 문서 초안·요약·업무 메일 (간호사 탈임상, 개인정보 주의)</li><li><a href="guides/2026-12-05/">2026-12-05 (토)</a> <span class="muted">· 병원 밖 업무 스킬</span><br>CRC 입사 후, 경력이 되는 경험과 시간 활용법</li><li><a href="guides/2026-12-06/">2026-12-06 (일)</a> <span class="muted">· 자소서/면접</span><br>공공기관 NCS 직업기초능력, 간호사는 어떻게 준비할까? 출제 영역·공부 순서 정리</li><li><a href="guides/2026-12-09/">2026-12-09 (수)</a> <span class="muted">· 병원 밖 업무 스킬</span><br>산업위생관리기사, 보건관리자 지원에 필요할까? 간호사 면허만으로 되는지·응시자격·준비법</li><li><a href="guides/2026-12-12/">2026-12-12 (토)</a> <span class="muted">· 병원 밖 업무 스킬</span><br>CRC 다음은 어디로? 바로 CRA vs CRC 경력, 이직 방향 정리 (CRA·CTA·RA·의료데이터·연구직)</li><li><a href="guides/2026-12-13/">2026-12-13 (일)</a> <span class="muted">· 자소서/면접</span><br>탈임상 면접 단골 질문과 답변 방향 (왜 임상을 떠나나요? 지원 동기·직무 이해)</li><li><a href="guides/2026-12-16/">2026-12-16 (수)</a> <span class="muted">· 병원 밖 업무 스킬</span><br>엑셀 기본기: 대상자 명단 관리하는 법 (필터·정렬·중복 제거·VLOOKUP/XLOOKUP 따라 하기)</li><li><a href="guides/2026-12-19/">2026-12-19 (토)</a> <span class="muted">· 병원 밖 업무 스킬</span><br>간호사 공기업 취업, 어디로 갈 수 있을까? 지원 가능한 기관·직렬과 미리 준비할 것</li><li><a href="guides/2026-12-20/">2026-12-20 (일)</a> <span class="muted">· 자소서/면접</span><br>AI로 면접 준비하는 법: 예상 질문 뽑기·답변 점검·모의 면접 (간호사 탈임상, 개인정보 주의)</li><li><a href="guides/2026-12-23/">2026-12-23 (수)</a> <span class="muted">· 병원 밖 업무 스킬</span><br>보험심사 간호사 자격증, 보험심사관리사 꼭 필요할까? 어떤 자격인지·쓰이는 공고·확인할 점</li><li><a href="guides/2026-12-26/">2026-12-26 (토)</a> <span class="muted">· 병원 밖 업무 스킬</span><br>보험심사 간호사는 어떤 일을 할까? 심사·청구·삭감 대응, 근무처, 지원 자격 정리</li><li><a href="guides/2026-12-27/">2026-12-27 (일)</a> <span class="muted">· 자소서/면접</span><br>보건교사 기간제·시간강사 지원 서류 준비: 제출 서류·자기소개서·결격사유 확인</li><li><a href="guides/2026-12-30/">2026-12-30 (수)</a> <span class="muted">· 병원 밖 업무 스킬</span><br>엑셀로 건강검진·유소견자 관리표 만들기 (보건관리자 업무 예시, COUNTIF·조건부 서식)</li><li><a href="guides/2027-01-02/">2027-01-02 (토)</a> <span class="muted">· 병원 밖 업무 스킬</span><br>보건관리자(산업간호사)는 어떤 일을 할까? 간호사 면허만으로 될까, 하는 일·자격·근무처</li><li><a href="guides/2027-01-03/">2027-01-03 (일)</a> <span class="muted">· 자소서/면접</span><br>계약직·기간제로 시작해도 괜찮을까? 탈임상 간호사의 경력 쌓는 전략</li><li><a href="guides/2027-01-06/">2027-01-06 (수)</a> <span class="muted">· 병원 밖 업무 스킬</span><br>보건교육사, 간호사에게 필요할까? 국가자격 등급·응시자격·보건소·공공기관에서 쓰이는 곳</li><li><a href="guides/2027-01-09/">2027-01-09 (토)</a> <span class="muted">· 병원 밖 업무 스킬</span><br>보건소 간호사는 어떤 일을 할까? 기간제·임기제·공무원 차이와 지원 방법</li><li><a href="guides/2027-01-13/">2027-01-13 (수)</a> <span class="muted">· 병원 밖 업무 스킬</span><br>엑셀 피벗테이블로 월별 통계 내기: 보고서용 집계 따라 하기 (보건사업·검진 실적)</li><li><a href="guides/2027-01-16/">2027-01-16 (토)</a> <span class="muted">· 병원 밖 업무 스킬</span><br>대학교 보건실 간호사는 어떤 일을 할까? 보건교사와 다른 점, 지원 자격 정리</li><li><a href="guides/2027-01-20/">2027-01-20 (수)</a> <span class="muted">· 병원 밖 업무 스킬</span><br>국제의료관광코디네이터, 간호사에게 쓸모 있을까? 국가기술자격 응시자격·어학 기준·활용처</li><li><a href="guides/2027-01-23/">2027-01-23 (토)</a> <span class="muted">· 병원 밖 업무 스킬</span><br>간호직 공무원 vs 보건직 공무원 차이, 시험 과목·하는 일·간호사에게 맞는 쪽은?</li><li><a href="guides/2027-01-27/">2027-01-27 (수)</a> <span class="muted">· 병원 밖 업무 스킬</span><br>공문·보고서 쓰는 기본 형식: 공공기관·기업 문서 처음 쓰는 간호사를 위한 정리</li><li><a href="guides/2027-01-30/">2027-01-30 (토)</a> <span class="muted">· 병원 밖 업무 스킬</span><br>제약회사·의료기기 회사 RA, PV는 어떤 일을 할까? 간호사가 가는 길과 준비할 것</li><li><a href="guides/2027-02-03/">2027-02-03 (수)</a> <span class="muted">· 병원 밖 업무 스킬</span><br>CRC 준비 자격·교육 총정리: 임상시험 종사자 교육·GCP, 자격증보다 먼저 챙길 것</li><li><a href="guides/2027-02-06/">2027-02-06 (토)</a> <span class="muted">· 병원 밖 업무 스킬</span><br>QI(의료질관리) 간호사는 어떤 일을 할까? 인증평가·적정성평가·환자안전 업무 정리</li><li><a href="guides/2027-02-10/">2027-02-10 (수)</a> <span class="muted">· 병원 밖 업무 스킬</span><br>회의록·업무 메일 잘 쓰는 법: 결정 사항·할 일·기한 정리 (탈임상 간호사 실무)</li><li><a href="guides/2027-02-17/">2027-02-17 (수)</a> <span class="muted">· 병원 밖 업무 스킬</span><br>의료기기 RA 전문가 자격증, 간호사에게 필요할까? 국가공인 자격·응시자격·시험 과목</li><li><a href="guides/2027-02-24/">2027-02-24 (수)</a> <span class="muted">· 병원 밖 업무 스킬</span><br>엑셀 그래프로 한 장짜리 보고서 만들기: 어떤 그래프를 고를까, 보기 좋게 다듬는 법</li><li><a href="guides/2027-03-03/">2027-03-03 (수)</a> <span class="muted">· 병원 밖 업무 스킬</span><br>컴퓨터활용능력, 탈임상 간호사에게 필요할까? 공공기관·보건소 공고에서 쓰이는 곳과 준비법</li><li><a href="guides/2027-03-10/">2027-03-10 (수)</a> <span class="muted">· 병원 밖 업무 스킬</span><br>한국사능력검정, 탈임상 간호사에게 필요할까? 공기업 우대·공무원 시험 대체 정리</li><li><a href="guides/2027-03-17/">2027-03-17 (수)</a> <span class="muted">· 병원 밖 업무 스킬</span><br>사회복지사 2급, 간호사에게 필요할까? 취득 방법·정신건강복지센터·지역사회 사업 활용</li><li class="muted" style="list-style:none;margin:12px 0 0 -1.2em"><b>지난 글</b></li><li><a href="guides/2026-11-25/">2026-11-25 (수)</a> <span class="muted">· 병원 밖 업무 스킬</span><br>탈임상 간호사 자격증 한눈에 보기: 직무별로 필요한 자격증 정리 (보건관리자·보험심사·보건소·공기업)</li><li><a href="guides/2026-11-22/">2026-11-22 (일)</a> <span class="muted">· 자소서/면접</span><br>자소서 AI로 써도 될까? 간호사 탈임상 자소서, AI로 초안 잡고 다듬는 법 (프롬프트 예시)</li><li><a href="guides/2026-11-21/">2026-11-21 (토)</a> <span class="muted">· 병원 밖 업무 스킬</span><br>CRC(임상연구코디네이터)는 어떤 일을 할까? 업무·소속·장단점·잘 맞는 사람 총정리</li></ul></div>
 <h2>📅 날짜별 공고</h2>
-<div class="box"><ul class="days"><li><a href="2026-11-26/">2026-11-26</a> <span class="muted">· 6건</span></li><li><a href="2026-11-25/">2026-11-25</a> <span class="muted">· 12건</span></li><li><a href="2026-11-24/">2026-11-24</a> <span class="muted">· 31건</span></li><li><a href="2026-11-23/">2026-11-23</a> <span class="muted">· 6건</span></li><li><a href="2026-11-22/">2026-11-22</a> <span class="muted">· 9건</span></li><li><a href="2026-11-21/">2026-11-21</a> <span class="muted">· 11건</span></li><li><a href="2026-11-20/">2026-11-20</a> <span class="muted">· 7건</span></li><li><a href="2026-11-19/">2026-11-19</a> <span class="muted">· 13건</span></li><li><a href="2026-11-18/">2026-11-18</a> <span class="muted">· 4건</span></li><li><a href="2026-11-17/">2026-11-17</a> <span class="muted">· 5건</span></li><li><a href="2026-11-14/">2026-11-14</a> <span class="muted">· 2건</span></li><li><a href="2026-11-12/">2026-11-12</a> <span class="muted">· 1건</span></li><li><a href="2026-11-11/">2026-11-11</a> <span class="muted">· 4건</span></li><li><a href="2026-11-10/">2026-11-10</a> <span class="muted">· 1건</span></li><li><a href="2026-11-09/">2026-11-09</a> <span class="muted">· 1건</span></li><li><a href="2026-11-07/">2026-11-07</a> <span class="muted">· 1건</span></li><li><a href="2026-11-06/">2026-11-06</a> <span class="muted">· 4건</span></li><li><a href="2026-11-05/">2026-11-05</a> <span class="muted">· 19건</span></li></ul></div>
+<div class="box"><ul class="days"><li><a href="2026-11-26/">2026-11-26</a> <span class="muted">· 7건</span></li><li><a href="2026-11-25/">2026-11-25</a> <span class="muted">· 12건</span></li><li><a href="2026-11-24/">2026-11-24</a> <span class="muted">· 31건</span></li><li><a href="2026-11-23/">2026-11-23</a> <span class="muted">· 6건</span></li><li><a href="2026-11-22/">2026-11-22</a> <span class="muted">· 9건</span></li><li><a href="2026-11-21/">2026-11-21</a> <span class="muted">· 11건</span></li><li><a href="2026-11-20/">2026-11-20</a> <span class="muted">· 7건</span></li><li><a href="2026-11-19/">2026-11-19</a> <span class="muted">· 13건</span></li><li><a href="2026-11-18/">2026-11-18</a> <span class="muted">· 4건</span></li><li><a href="2026-11-17/">2026-11-17</a> <span class="muted">· 5건</span></li><li><a href="2026-11-14/">2026-11-14</a> <span class="muted">· 2건</span></li><li><a href="2026-11-12/">2026-11-12</a> <span class="muted">· 1건</span></li><li><a href="2026-11-11/">2026-11-11</a> <span class="muted">· 4건</span></li><li><a href="2026-11-10/">2026-11-10</a> <span class="muted">· 1건</span></li><li><a href="2026-11-09/">2026-11-09</a> <span class="muted">· 1건</span></li><li><a href="2026-11-07/">2026-11-07</a> <span class="muted">· 1건</span></li><li><a href="2026-11-06/">2026-11-06</a> <span class="muted">· 4건</span></li><li><a href="2026-11-05/">2026-11-05</a> <span class="muted">· 19건</span></li></ul></div>
 </main></body></html>
